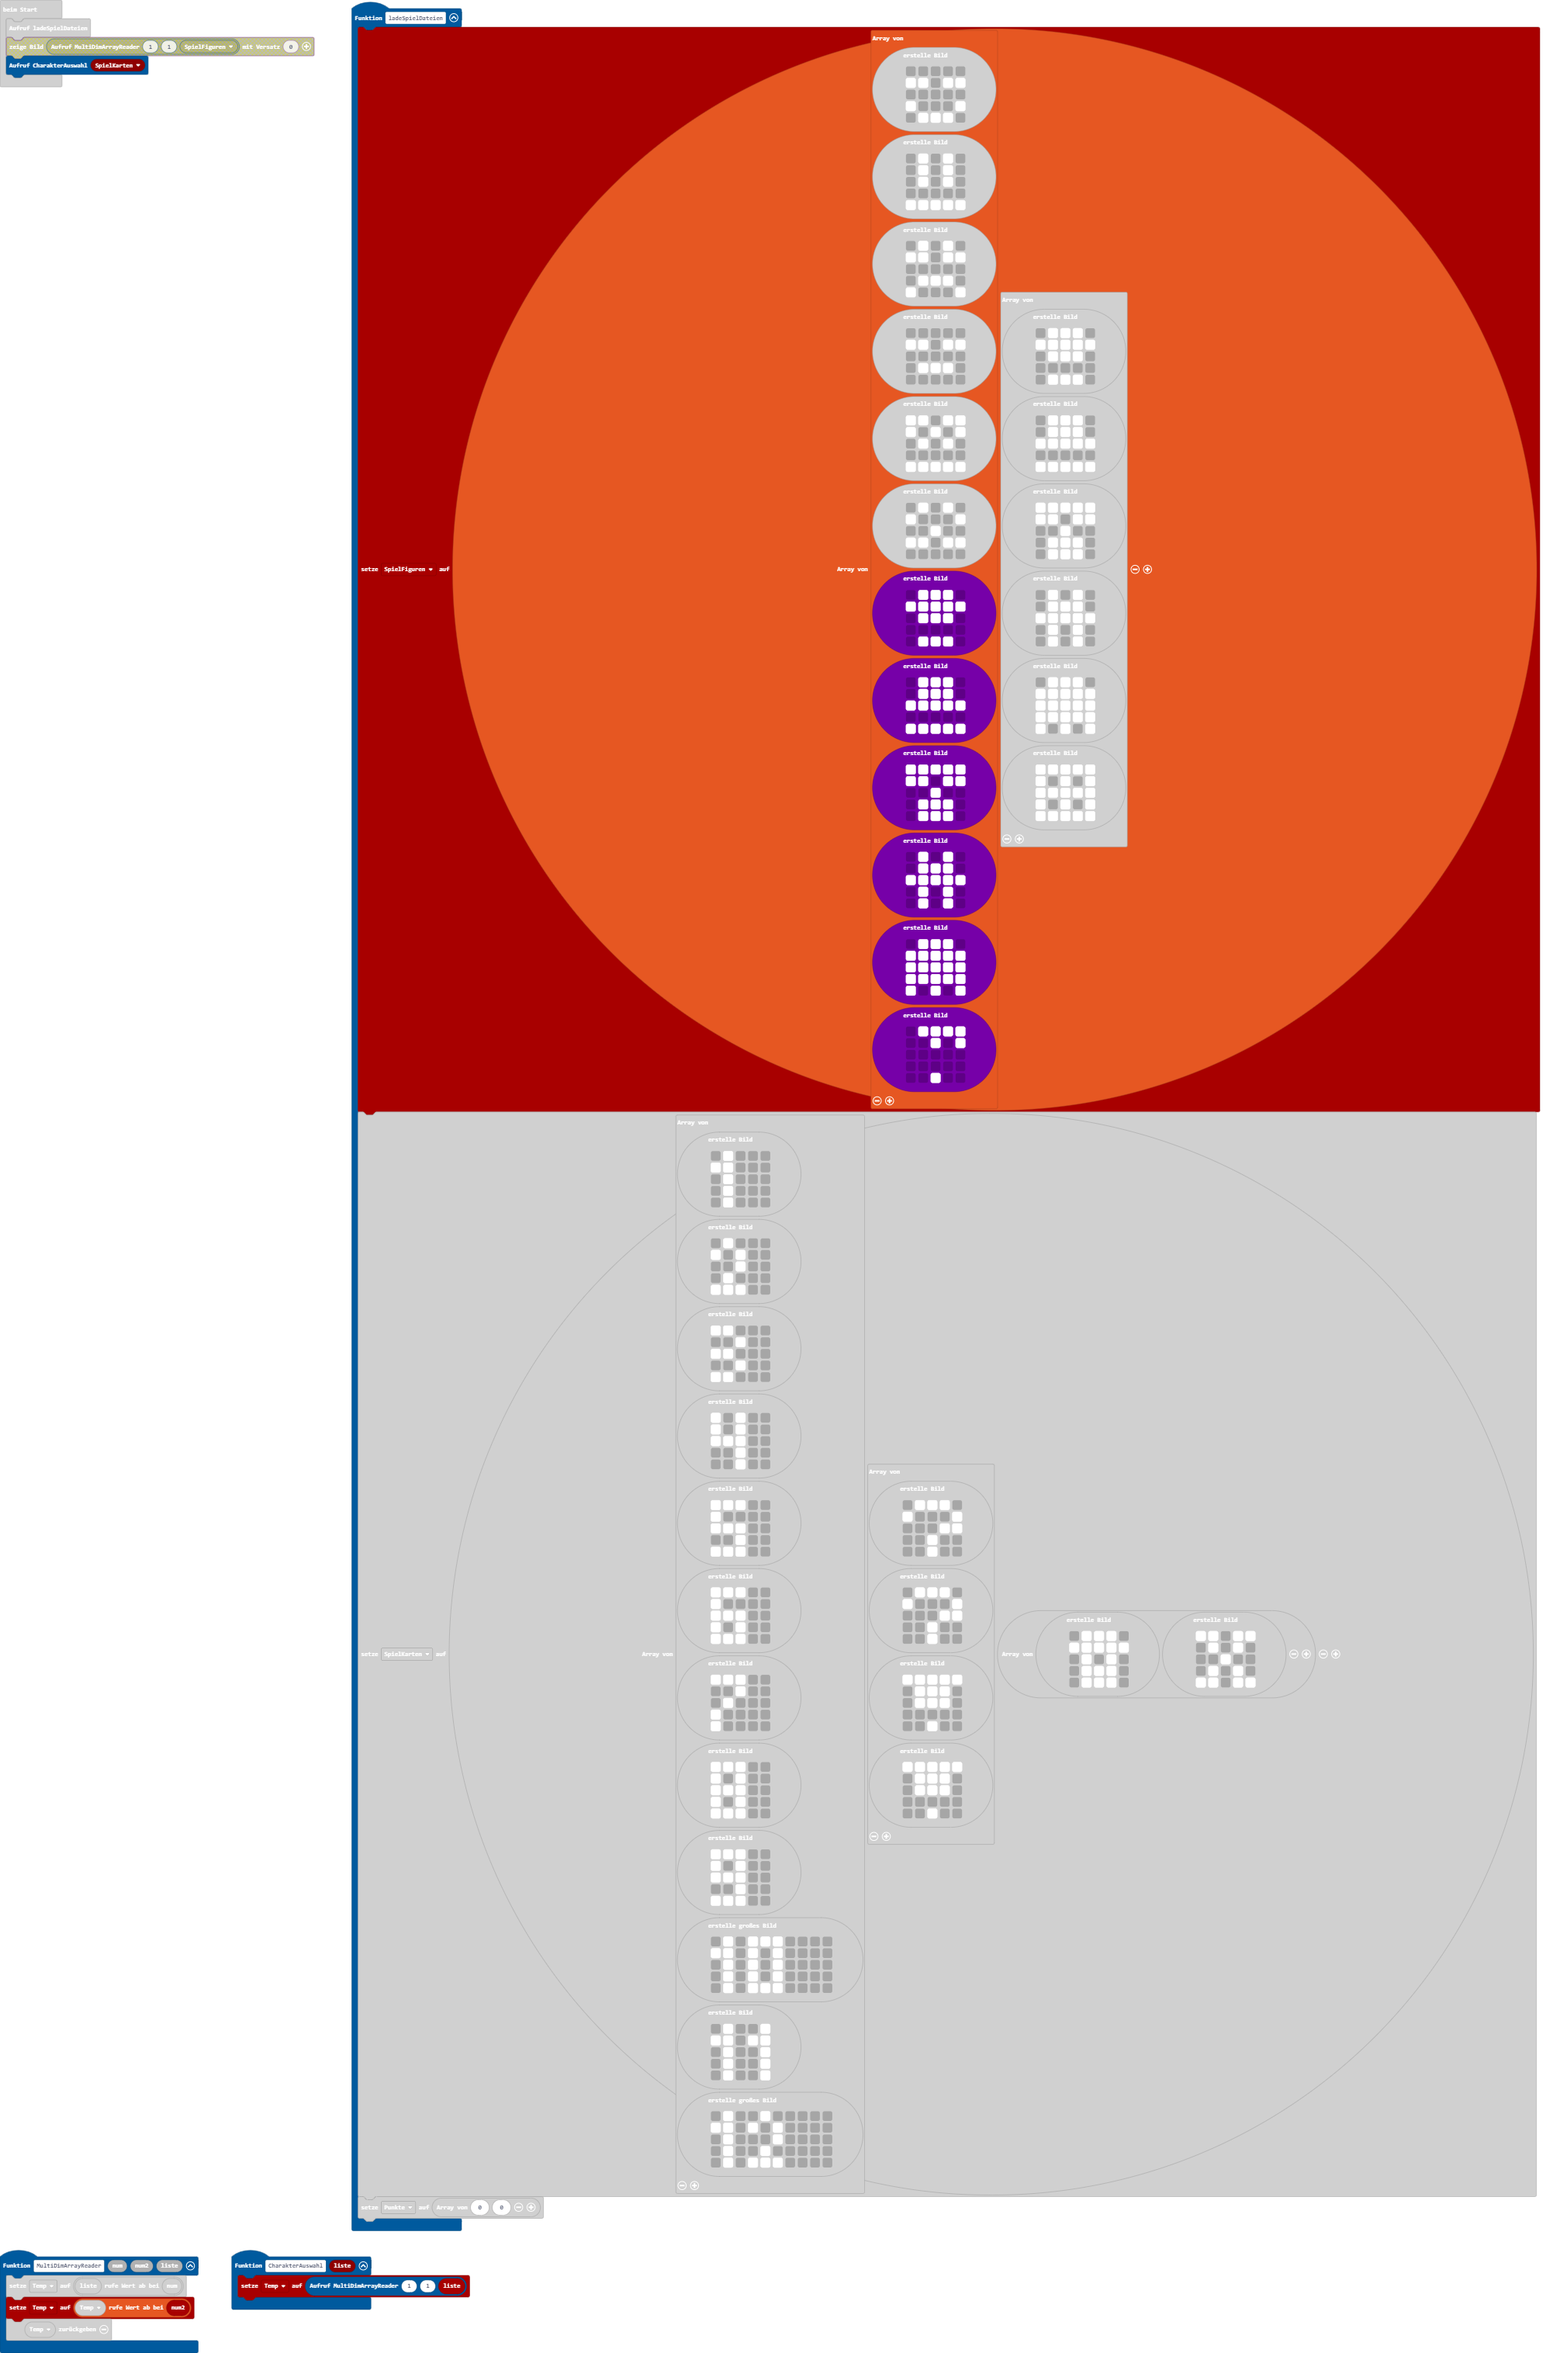
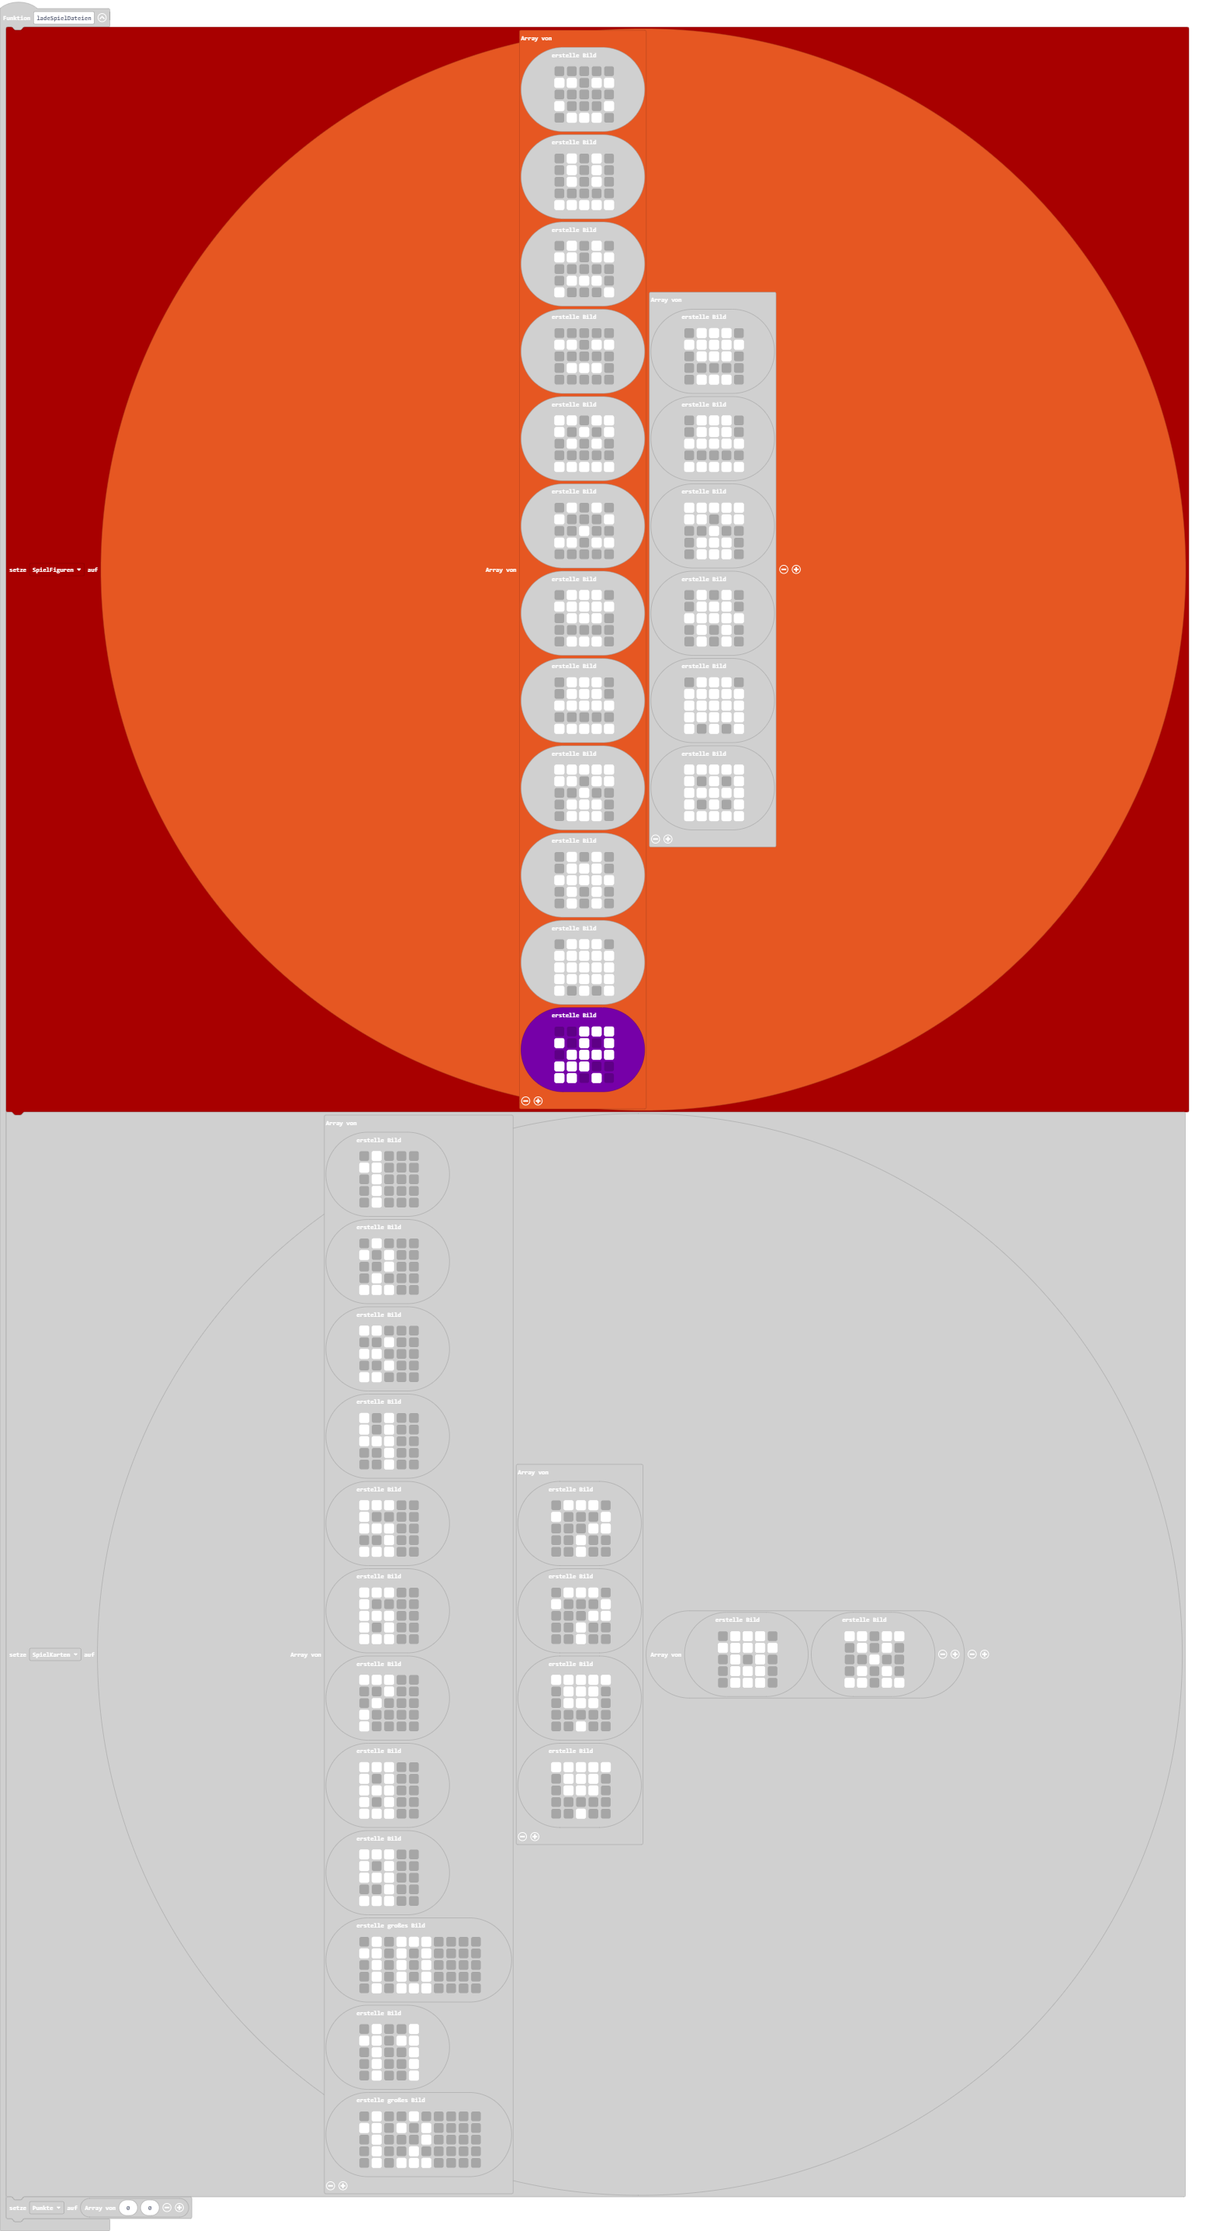
Aktualisiere main.blocks, main.ts

diff --git a/main.ts b/main.ts
@@ -81,11 +81,11 @@ function ladeSpielDateien () {
         # . # . #
         `),
     images.createImage(`
+        . . # # #
+        # . # . #
         . # # # #
-        . . # . #
-        . . . . .
-        . . . . .
-        . . # . .
+        # # # . .
+        # # . # .
         `)
     ], [
     images.createImage(`
